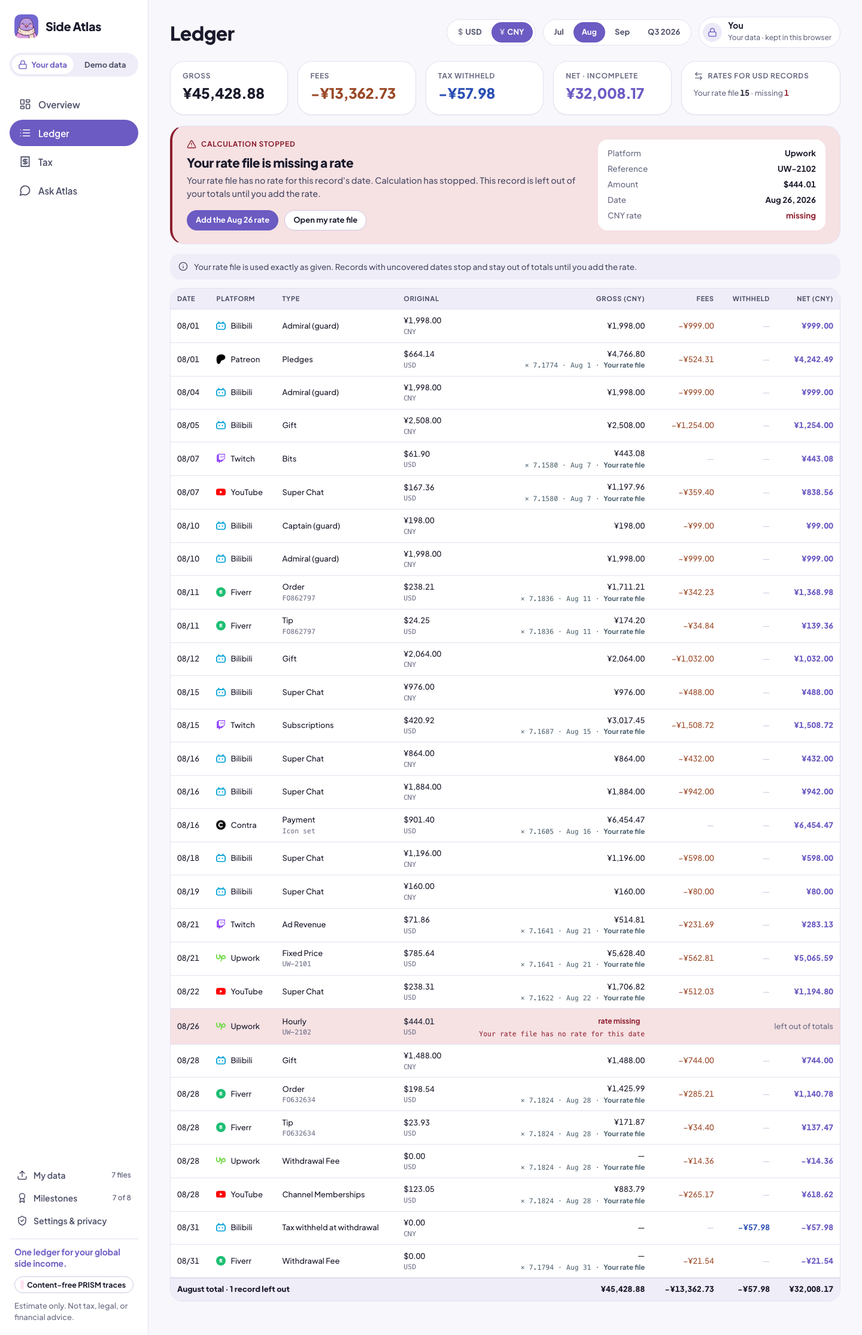
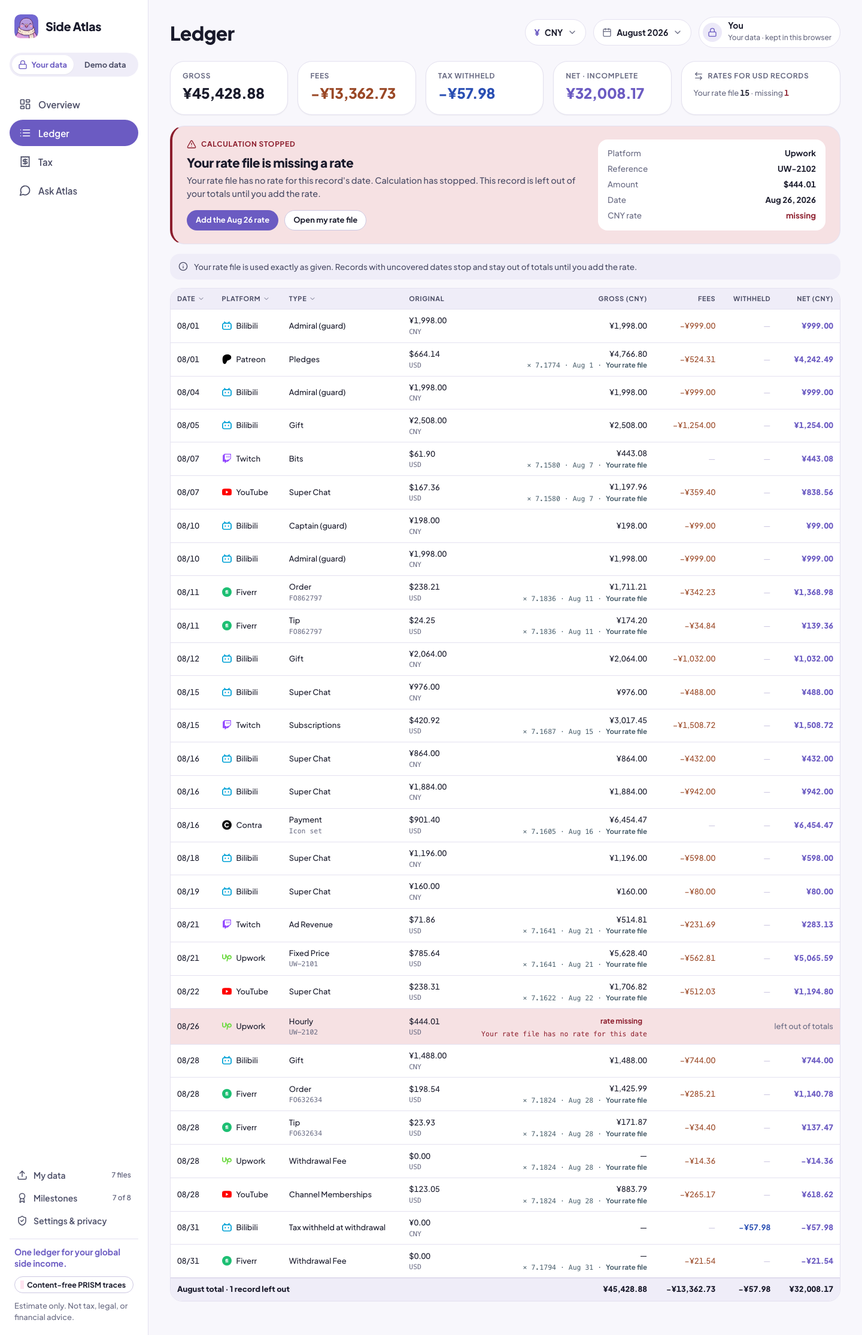
Dropdowns for period and currency; ledger filters in the column headers (kit v1.4.1)
Period and display currency are pills over native selects (months newest first, then
quarters). The ledger chip row is gone: Date sorts, Platform and Type filter from their
headers, CSV moves to the page header, the record count moves to the total row.

diff --git a/web/screens/ledger.js b/web/screens/ledger.js
@@ -17,10 +17,28 @@ async function load(ctx) {
 }
 
 function filtered(ctx, rows) {
-  const f = ctx.query.get("f"), t = ctx.query.get("t");
+  const f = ctx.query.get("f"), t = ctx.query.get("t"), dir = ctx.query.get("s") === "new" ? -1 : 1;
   return rows.filter(r => (!f || r.platform === f) && (!t || r.type === t))
-    .sort((a, b) => a.date.localeCompare(b.date) || a.platform.localeCompare(b.platform));
+    .sort((a, b) => dir * a.date.localeCompare(b.date) || a.platform.localeCompare(b.platform));
 }
+
+// Column filters (kit v1.4.1): Date sorts, Platform and Type filter. Each header is a small pill over a
+// native select; an active filter shows its value in the accent colour.
+function head(ctx, L, cols) {
+  const f = ctx.query.get("f"), type = ctx.query.get("t"), sort = ctx.query.get("s") === "new" ? "new" : "old";
+  const types = [...new Set(L.rows.filter(r => !f || r.platform === f).map(r => r.type))].sort();
+  const pick = (key, text, on, options) => `<label class="th-pick ${on ? "on" : ""}">${esc(text)}${icon("chevron", "sm chev")}
+    <select data-col="${key}" aria-label="${key === "s" ? "Sort by date" : key === "f" ? "Filter by platform" : "Filter by type"}">${options}</select></label>`;
+  const opt = (v, label, sel) => `<option value="${esc(v)}" ${sel ? "selected" : ""}>${esc(label)}</option>`;
+  const plat = f && L.platforms.find(p => p.platform === f);
+  return `<thead><tr>
+    <th>${pick("s", "Date", sort === "new", opt("old", "Oldest first", sort === "old") + opt("new", "Newest first", sort === "new"))}</th>
+    <th>${pick("f", plat ? plat.label : "Platform", !!plat, opt("", "All platforms", !f) + L.platforms.map(p => opt(p.platform, p.label, p.platform === f)).join(""))}</th>
+    <th>${pick("t", type || "Type", !!type, opt("", "All types", !type) + types.map(x => opt(x, x, x === type)).join(""))}</th>
+    ${cols}</tr></thead>`;
+}
+
+const csvBtn = `<button class="sa-btn secondary sm" data-csv>${icon("download", "sm")} CSV</button>`;
 
 function original(r) {
   if (r.original.currency === "USD") return `<span class="meta">USD</span>`;
@@ -37,23 +55,20 @@ export async function render(ctx) {
   const L = await load(ctx);
   const t = L.totals;
   const rows = filtered(ctx, L.rows);
-  const f = ctx.query.get("f"), type = ctx.query.get("t");
-  const types = [...new Set(L.rows.filter(r => !f || r.platform === f).map(r => r.type))].sort();
-  const link = extra => ctx.href("ledger", { c: ctx.creator, p: ctx.period, f, t: type, ...extra });
+  const f = ctx.query.get("f");
   // One home for the totals: the KPI row follows the platform filter (no repeated total row).
   const k = (f && L.platforms.find(p => p.platform === f)) || t;
 
   const importBtn = `<button class="sa-btn primary sm" data-import-open>${icon("upload", "sm")} Import statements</button>`;
-  return top(ctx, "Ledger", periodLabel(ctx.period), { actions: importBtn }) + `
+  return top(ctx, "Ledger", "", { actions: csvBtn + importBtn }) + `
   ${L.issues.length ? `<div class="sa-grid" style="margin-bottom:20px">${warnCard(ctx, L.issues)}</div>` : ""}
   <div class="sa-kpirow">
     ${[["Gross", k.gross, ""], ["Platform fees", -k.platform_fee, "var(--sa-fee-text)"], ["Payout fees", -k.payout_fee, "var(--sa-payout-text)"],
        ["Tax withheld", -k.withheld, "var(--sa-tax-text)"], ["Net", k.net, "var(--sa-net-text)"]]
       .map(([l, v, c]) => `<div class="sa-card sa-kpi"><div class="label">${l}</div><div class="sa-fig num" style="${c ? `color:${c}` : ""}">${usd(v)}</div></div>`).join("")}
   </div>
-  ${filters(ctx, L, link, types)}
   <div class="sa-tablewrap"><table class="sa-table dense">
-    <thead><tr><th>Date</th><th>Platform</th><th>Type</th><th>Original</th><th class="money">Gross</th><th class="money">Platform fee</th><th class="money">Payout fee</th><th class="money">Withheld</th><th class="money">Net</th></tr></thead>
+    ${head(ctx, L, `<th>Original</th><th class="money">Gross</th><th class="money">Platform fee</th><th class="money">Payout fee</th><th class="money">Withheld</th><th class="money">Net</th>`)}
     <tbody>${rows.map(r => `<tr class="${r.net_usd == null ? "missing" : ""}">
       <td class="num">${mmdd(r.date)}</td>
       <td>${picon(r.platform)}${esc(r.platform_label)}</td>
@@ -61,17 +76,6 @@ export async function render(ctx) {
       <td class="num">${original(r)}</td>
       ${r.gross_usd == null ? cell(null) : `<td class="money">${usd(r.gross_usd)}</td>`}${cell(r.platform_fee_usd, "fee")}${cell(r.payout_fee_usd, "payout")}${cell(r.withheld_usd, "tax")}${cell(r.net_usd, "net")}</tr>`).join("")}
     </tbody></table></div>`;
-}
-
-function filters(ctx, L, link, types) {
-  const f = ctx.query.get("f"), type = ctx.query.get("t");
-  return `<div class="sa-filters">
-    <a class="sa-chip ${f ? "" : "on"}" href="${link({ f: null, t: null })}">All · ${L.rows.length} records</a>
-    ${L.platforms.map(p => `<a class="sa-chip ${f === p.platform ? "on" : ""}" href="${link({ f: f === p.platform ? null : p.platform, t: null })}">${picon(p.platform)}${p.label}</a>`).join("")}
-    <label class="sa-btn secondary sm select">${icon("filter", "sm")} ${type ? esc(type) : "Type"}
-      <select data-type aria-label="Record type"><option value="">All types</option>${types.map(x => `<option ${x === type ? "selected" : ""}>${esc(x)}</option>`).join("")}</select></label>
-    <button class="sa-btn secondary sm" data-csv>${icon("download", "sm")} CSV</button>
-  </div>`;
 }
 
 // ---------------------------------------------------------------- Your data (kit 17)
@@ -96,9 +100,7 @@ async function renderYours(ctx) {
   const money = ctx.money, k = ctx.cur.toLowerCase();
   const L = await load(ctx);
   const rows = filtered(ctx, L.rows);
-  const f = ctx.query.get("f"), type = ctx.query.get("t");
-  const types = [...new Set(L.rows.filter(r => !f || r.platform === f).map(r => r.type))].sort();
-  const link = extra => ctx.href("ledger", { p: ctx.period, f, t: type, ...extra });
+  const f = ctx.query.get("f");
   const t = (f && L.platforms.find(p => p.platform === f)) || L.totals;
   const left = rows.filter(r => r.issue).length;
 
@@ -131,7 +133,7 @@ async function renderYours(ctx) {
   }).join("");
   const label = periodLabel(ctx.period).split(" · ")[0];
 
-  return top(ctx, "Ledger", "", { actions: ctx.currencySeg(ctx) }) + `
+  return top(ctx, "Ledger", "", { actions: csvBtn + ctx.currencySeg(ctx) }) + `
   ${L.issues.length ? `<div class="sa-grid" style="margin-bottom:16px">${warnCard(ctx, L.issues)}</div>` : ""}
   <div class="sa-kpirow">
     ${[["Gross", t.gross, ""], ["Fees", -(t.platform_fee + t.payout_fee), "var(--sa-fee-text)"], ["Tax withheld", -t.withheld, "var(--sa-tax-text)"],
@@ -140,18 +142,20 @@ async function renderYours(ctx) {
     ${ratesCard}
   </div>
   ${curs.length ? `<div class="sa-note info" style="margin-bottom:14px">${icon("info", "sm")}<span>${withFile ? YOURS.LEDGER_FILE_NOTE : YOURS.LEDGER_ECB_NOTE}</span></div>` : ""}
-  ${filters(ctx, L, link, types)}
   <div class="sa-tablewrap"><table class="sa-table dense">
-    <thead><tr><th>Date</th><th>Platform</th><th>Type</th><th>Original</th><th class="money">Gross (${ctx.cur})</th><th class="money">Fees</th><th class="money">Withheld</th><th class="money">Net (${ctx.cur})</th></tr></thead>
+    ${head(ctx, L, `<th>Original</th><th class="money">Gross (${ctx.cur})</th><th class="money">Fees</th><th class="money">Withheld</th><th class="money">Net (${ctx.cur})</th>`)}
     <tbody>${body}
-      <tr class="total"><td colspan="4">${esc(label)} total${left ? ` · ${left} record${left === 1 ? "" : "s"} left out` : ""}</td><td class="money">${money(t.gross)}</td><td class="money">${money(-(t.platform_fee + t.payout_fee))}</td><td class="money">${money(-t.withheld)}</td><td class="money">${money(t.net)}</td></tr>
+      <tr class="total"><td colspan="4">${esc(label)} total · ${rows.length} record${rows.length === 1 ? "" : "s"}${left ? ` · ${left} record${left === 1 ? "" : "s"} left out` : ""}</td><td class="money">${money(t.gross)}</td><td class="money">${money(-(t.platform_fee + t.payout_fee))}</td><td class="money">${money(-t.withheld)}</td><td class="money">${money(t.net)}</td></tr>
     </tbody></table></div>`;
 }
 
 export function mount(ctx, root) {
-  root.querySelector("[data-type]")?.addEventListener("change", ev => {
-    location.hash = ctx.href("ledger", { c: ctx.yours ? null : ctx.creator, p: ctx.period, f: ctx.query.get("f"), t: ev.target.value || null });
-  });
+  root.querySelectorAll("[data-col]").forEach(sel => sel.addEventListener("change", () => {
+    const q = { f: ctx.query.get("f"), t: ctx.query.get("t"), s: ctx.query.get("s") };
+    q[sel.dataset.col] = sel.value && !(sel.dataset.col === "s" && sel.value === "old") ? sel.value : null;
+    if (sel.dataset.col === "f") q.t = null; // types differ per platform
+    location.hash = ctx.href("ledger", { c: ctx.yours ? null : ctx.creator, p: ctx.period, ...q });
+  }));
   root.querySelector("[data-csv]")?.addEventListener("click", () => downloadCsv(ctx));
   const open = () => openPanel(ctx, root, () => {
     if (ctx.query.get("import")) history.replaceState(null, "", ctx.href("ledger", { c: ctx.creator, p: ctx.period, f: ctx.query.get("f"), t: ctx.query.get("t") }));

diff --git a/design/Side-Atlas-Design-Kit v1/07-mockups/app.html b/design/Side-Atlas-Design-Kit v1/07-mockups/app.html
@@ -77,9 +77,13 @@ const dateShort = d => new Date(d + "T12:00:00").toLocaleString("en-US", { month
 function who(name, cjk, meta) {
   return `<div class="sa-who"><div class="av">${cjk ? `<span class="cjk">${cjk}</span>` : name[0]}</div><div><b>${name}</b><span>${meta}</span></div></div>`;
 }
+// v1.4.1: period and currency are dropdown pills (a native select in the product), so the list can grow.
+const PERIOD_LONG = { Jul: "July 2026", Aug: "August 2026", Sep: "September 2026", "Q3 2026": "Q3 2026" };
 function periodSeg(on) {
-  return `<div class="sa-seg">${["Jul", "Aug", "Sep", "Q3 2026"].map(p => `<button class="${p === on ? "on" : ""}">${p}</button>`).join("")}</div>`;
+  return `<span class="sa-pick">${icon("calendar", "sm")}<span>${PERIOD_LONG[on] ?? on}</span>${icon("chevron", "sm chev")}</span>`;
 }
+const thPick = (label, on) => `<span class="th-pick ${on ? "on" : ""}">${label}${icon("chevron", "sm chev")}</span>`;
+const csvBtn = () => `<span class="sa-btn secondary sm">${icon("download", "sm")} CSV</span>`;
 const moon = () => who("Moon Spirit", "", "New York · US tax home · single-member LLC");
 
 /* ---------------- Overview ---------------- */
@@ -135,19 +139,13 @@ function ledger() {
   const rows = [...L.rows].sort((a, b) => a.date.localeCompare(b.date) || a.platform.localeCompare(b.platform));
   const cell = (v, cls) => `<td class="money ${v === 0 ? "zero" : cls}">${v === 0 ? "—" : usd(cls === "net" ? v : -v)}</td>`;
   return `
-  <div class="sa-top"><div><h1>Ledger</h1></div><div class="right">${periodSeg("Sep")}${moon()}</div></div>
+  <div class="sa-top"><div><h1>Ledger</h1></div><div class="right">${csvBtn()}${periodSeg("Sep")}${moon()}</div></div>
   <div class="sa-kpirow">
     ${[["Gross", t.gross, ""], ["Platform fees", -t.platform_fee, "var(--sa-fee-text)"], ["Payout fees", -t.payout_fee, "var(--sa-payout-text)"], ["Tax withheld", -t.withheld, "var(--sa-tax-text)"], ["Net", t.net, "var(--sa-forest)"]]
       .map(([l, v, c]) => `<div class="sa-card sa-kpi"><div class="label">${l}</div><div class="sa-fig num" style="${c ? `color:${c}` : ""}">${usd(v)}</div></div>`).join("")}
   </div>
-  <div style="display:flex;gap:8px;align-items:center;margin-bottom:14px;flex-wrap:wrap">
-    <span class="sa-chip on">All · ${rows.length} records</span>
-    ${D.overview_c01_sep.platforms.map(p => `<span class="sa-chip">${PICON(p.platform)}${p.label}</span>`).join("")}
-    <span style="margin-left:auto" class="sa-btn secondary sm">${icon("filter", "sm")} Type</span>
-    <span class="sa-btn secondary sm">${icon("download", "sm")} CSV</span>
-  </div>
   <div class="sa-tablewrap"><table class="sa-table dense">
-    <thead><tr><th>Date</th><th>Platform</th><th>Type</th><th>Original</th><th class="money">Gross</th><th class="money">Platform fee</th><th class="money">Payout fee</th><th class="money">Withheld</th><th class="money">Net</th></tr></thead>
+    <thead><tr><th>${thPick("Date")}</th><th>${thPick("Platform")}</th><th>${thPick("Type")}</th><th>Original</th><th class="money">Gross</th><th class="money">Platform fee</th><th class="money">Payout fee</th><th class="money">Withheld</th><th class="money">Net</th></tr></thead>
     <tbody>${rows.map(r => `<tr>
       <td class="num">${r.date.slice(5).replace("-", "/")}</td>
       <td>${PICON(r.platform)}${r.platform_label}</td>
@@ -426,7 +424,7 @@ function bindSettings() {
 // "Your data" screens re-use creator C01's exports as if the person uploaded them (data-v13.js, real ledger
 // numbers). The person is "You": no name, no account; account IDs appear only as pseudonymised labels.
 const you = () => `<div class="sa-who"><div class="av">${icon("lock", "sm")}</div><div><b>You</b><span>Your data · kept in this browser</span></div></div>`;
-const curSeg = on => `<div class="sa-seg cur" aria-label="Display currency">${[["USD", "$"], ["CNY", "¥"]].map(([c, g]) => `<button class="${c === on ? "on" : ""}"><span>${g}</span>${c}</button>`).join("")}</div>`;
+const curSeg = on => `<span class="sa-pick"><b class="g">${on === "CNY" ? "¥" : "$"}</b><span>${on}</span>${icon("chevron", "sm chev")}</span>`;
 // Where each export lives (same list as the product's import drawer; paths may change).
 const WHERE = [
   ["upwork", "Upwork", "upwork_transactions.csv", "Reports → Transaction history → Download CSV"],
@@ -752,7 +750,7 @@ function ledgerCnyCase(kind) {
   </section>` : ""}
   <div class="sa-note info" style="margin-bottom:14px">${icon("info", "sm")}<span>${kind === "ecb" ? X.LEDGER_ECB_NOTE : X.LEDGER_FILE_NOTE}</span></div>
   <div class="sa-tablewrap"><table class="sa-table dense">
-    <thead><tr><th>Date</th><th>Platform</th><th>Type</th><th>Original</th><th class="money">Gross (CNY)</th><th class="money">Fees</th><th class="money">Withheld</th><th class="money">Net (CNY)</th></tr></thead>
+    <thead><tr><th>${thPick("Date")}</th><th>${thPick("Platform")}</th><th>${thPick("Type")}</th><th>Original</th><th class="money">Gross (CNY)</th><th class="money">Fees</th><th class="money">Withheld</th><th class="money">Net (CNY)</th></tr></thead>
     <tbody>${LG.rows.map(r => r.issue ? `<tr class="missing">${head(r)}
       <td class="money"><span class="sa-badge warn">rate missing</span>${rateLine(r)}</td><td colspan="3" class="money meta">left out of totals</td></tr>` : `<tr>${head(r)}
       <td class="money">${r.gross_cny ? yen(r.gross_cny) : "—"}${rateLine(r)}</td>${cell(r.platform_fee_cny + r.payout_fee_cny, "fee", true)}${cell(r.withheld_cny, "tax", true)}<td class="money net">${yen(r.net_cny)}</td></tr>`).join("")}
@@ -848,18 +846,13 @@ function ledgerV14() {
   };
   return `
   <div class="sa-top"><div><h1>Ledger</h1></div>
-    <div class="right"><a class="sa-btn secondary sm">${icon("upload", "sm")} Add statements</a><a class="sa-btn primary sm" href="#entry-expense">${icon("plus", "sm")} Add entry</a>${periodSeg("Sep")}</div></div>
+    <div class="right"><a class="sa-btn secondary sm">${icon("upload", "sm")} Add statements</a><a class="sa-btn primary sm" href="#entry-expense">${icon("plus", "sm")} Add entry</a>${csvBtn()}${periodSeg("Sep")}</div></div>
   <div class="sa-kpirow">
     ${[["Gross income", t.gross, ""], ["Fees", -t.fees, "var(--sa-fee-text)"], ["Tax withheld", -t.withheld, "var(--sa-tax-text)"], ["Your expenses", -t.expenses, ""], ["Kept after expenses", t.kept, "var(--sa-forest)"]]
       .map(([l, v, c]) => `<div class="sa-card sa-kpi"><div class="label">${l}</div><div class="sa-fig num" style="${c ? `color:${c}` : ""}">${money(v)}</div></div>`).join("")}
   </div>
-  <div style="display:flex;gap:8px;align-items:center;margin-bottom:14px">
-    <span class="sa-chip on">All <span class="n">${L.counts.all}</span></span><span class="sa-chip">${icon("up", "sm")} Income <span class="n">${L.counts.income}</span></span><span class="sa-chip">${icon("down", "sm")} Expenses <span class="n">${L.counts.expenses}</span></span>
-    <span class="meta" style="margin-left:12px;display:flex;gap:6px;align-items:center">${youTag()} ${L.counts.own} entries this month</span>
-    <span style="margin-left:auto" class="sa-btn secondary sm">${icon("filter", "sm")} Source</span><span class="sa-btn secondary sm">${icon("download", "sm")} CSV</span>
-  </div>
   <div class="sa-tablewrap"><table class="sa-table dense">
-    <thead><tr><th>Date</th><th>Source</th><th>Type</th><th>Original</th><th class="money">Gross</th><th class="money">Fees</th><th class="money">Withheld</th><th class="money">Net</th></tr></thead>
+    <thead><tr><th>${thPick("Date")}</th><th>${thPick("Source")}</th><th>${thPick("Type")}</th><th>Original</th><th class="money">Gross</th><th class="money">Fees</th><th class="money">Withheld</th><th class="money">Net</th></tr></thead>
     <tbody>${L.rows.map(row).join("")}
       <tr class="total"><td colspan="4">${monthName(m)} total · net income ${money(t.net)}, kept after expenses ${money(t.kept)}</td><td class="money">${money(t.gross)}</td><td class="money">${money(-t.fees)}</td><td class="money">${money(-t.withheld)}</td><td class="money">${money(t.net_after_expenses)}</td></tr>
     </tbody></table></div>`;

diff --git a/web/app.js b/web/app.js
@@ -5,7 +5,7 @@
 // in this browser, POST /api/personal/*). Screens ask ctx.load() and don't care which.
 import { COPY } from "./lib/copy.js";
 import { get } from "./lib/api.js";
-import { cur, esc, icon, monthShort, quarterOf } from "./lib/format.js";
+import { cur, esc, icon, monthName, monthShort, quarterOf } from "./lib/format.js";
 import * as overview from "./screens/overview.js";
 import * as ledger from "./screens/ledger.js";
 import * as tax from "./screens/tax.js";
@@ -82,8 +82,7 @@ export function href(screen, params) {
 function periodsOf(ctx) {
   if (!ctx.yours) return PERIODS;
   const { months, quarters } = yourPeriods(ctx.data);
-  const q = ctx.period ? quarterOf(ctx.period) : quarters.at(-1);
-  return [...months.filter(m => quarterOf(m) === q), ...quarters];
+  return [...months, ...quarters];
 }
 
 function periodFor(target, ctx) {
@@ -92,10 +91,16 @@ function periodFor(target, ctx) {
   return periodsOf(ctx).includes(ctx.period) ? ctx.period : null;
 }
 
-const periodName = p => p.includes("Q") ? `Q${p.slice(-1)} ${p.slice(0, 4)}` : monthShort(p);
+const periodName = p => p.includes("Q") ? `Q${p.slice(-1)} ${p.slice(0, 4)}` : `${monthName(p)} ${p.slice(0, 4)}`;
 
+// Period and display currency are dropdowns (kit v1.4.1): a pill that shows the choice over a native
+// select, so the list can grow with more months, quarters and years.
 export function periodSeg(ctx) {
-  return `<div class="sa-seg">${periodsOf(ctx).map(p => `<a href="${href(ctx.screen.key, { c: ctx.yours ? null : ctx.creator, p })}" class="${p === ctx.period ? "on" : ""}">${periodName(p)}</a>`).join("")}</div>`;
+  if (!ctx.period) return "";
+  const all = periodsOf(ctx), opt = p => `<option value="${p}" ${p === ctx.period ? "selected" : ""}>${periodName(p)}</option>`;
+  const group = (label, ps) => ps.length ? `<optgroup label="${label}">${ps.slice().reverse().map(opt).join("")}</optgroup>` : "";
+  return `<label class="sa-pick" title="Period">${icon("calendar", "sm")}<span>${periodName(ctx.period)}</span>${icon("chevron", "sm chev")}
+    <select data-period-switch aria-label="Period">${group("Months", all.filter(p => !p.includes("Q")))}${group("Quarters", all.filter(p => p.includes("Q")))}</select></label>`;
 }
 
 const issueText = c => c.data_issues?.length
@@ -118,10 +123,12 @@ export function whoPill(ctx) {
 }
 
 // Display currency switch (Your data only; the demo is in USD). Saving it re-renders the screen.
+const CURRENCIES = [["USD", "$", "US dollar"], ["CNY", "¥", "Chinese yuan"]];
 export function currencySeg(ctx) {
   if (!ctx.yours) return "";
-  return `<div class="sa-seg cur" aria-label="Display currency">${[["USD", "$"], ["CNY", "¥"]].map(([c, g]) =>
-    `<button type="button" data-currency="${c}" class="${c === ctx.cur ? "on" : ""}"><span>${g}</span>${c}</button>`).join("")}</div>`;
+  const [, g] = CURRENCIES.find(([c]) => c === ctx.cur) ?? CURRENCIES[0];
+  return `<label class="sa-pick" title="Display currency"><b class="g">${g}</b><span>${ctx.cur}</span>${icon("chevron", "sm chev")}
+    <select data-currency-switch aria-label="Display currency">${CURRENCIES.map(([c, , n]) => `<option value="${c}" ${c === ctx.cur ? "selected" : ""}>${c} · ${n}</option>`).join("")}</select></label>`;
 }
 
 let renderSeq = 0;
@@ -167,9 +174,12 @@ async function go() {
     const issueMonth = ctx.screen.period === "month" ? next?.data_issues?.[0]?.month : null;
     location.hash = href(ctx.screen.key, { c: ev.target.value, p: issueMonth ?? (ctx.screen.period ? ctx.period : null) });
   });
-  main.querySelectorAll("[data-currency]").forEach(b => b.addEventListener("click", async () => {
-    if (b.dataset.currency === ctx.cur) return;
-    await store.saveSettings({ currency: b.dataset.currency });
+  main.querySelector("[data-period-switch]")?.addEventListener("change", ev => {
+    location.hash = href(ctx.screen.key, { c: ctx.yours ? null : ctx.creator, p: ev.target.value });
+  });
+  main.querySelectorAll("[data-currency-switch]").forEach(sel => sel.addEventListener("change", async () => {
+    if (sel.value === ctx.cur) return;
+    await store.saveSettings({ currency: sel.value });
     go();
   }));
 }

diff --git a/web/styles/app.css b/web/styles/app.css
@@ -267,3 +267,17 @@ a.sa-prism { text-decoration: none; }
 .sa-legend li { grid-template-columns: 18px 1fr auto 92px; }
 .sa-legend .sa-picon { margin-right: 0; }
 .sa-chip .sa-picon { width: 14px; height: 14px; margin-right: 0; vertical-align: -2px; }
+
+/* Dropdown pickers (kit v1.4.1): period and display currency in the page header, column filters in the ledger */
+.sa-pick { position: relative; display: inline-flex; align-items: center; gap: 8px; height: 44px; padding: 0 14px; background: var(--sa-surface); border: 1px solid var(--sa-line); border-radius: var(--sa-r-pill); font: 700 14px/1 var(--sa-font); color: var(--sa-ink); white-space: nowrap; cursor: pointer; }
+.sa-pick:hover { border-color: var(--sa-line-strong); }
+.sa-pick:focus-within { outline: 2px solid var(--sa-forest); outline-offset: 2px; }
+.sa-pick > .sa-icon { color: var(--sa-meta); }
+.sa-pick .g { color: var(--sa-forest); font-weight: 800; }
+.sa-pick select, .th-pick select { position: absolute; inset: 0; width: 100%; opacity: 0; cursor: pointer; font: inherit; }
+.th-pick { position: relative; display: inline-flex; align-items: center; gap: 4px; padding: 4px 8px; margin: -4px -8px; border-radius: 8px; cursor: pointer; white-space: nowrap; }
+.th-pick:hover { background: var(--sa-forest-100); }
+.th-pick:focus-within { outline: 2px solid var(--sa-forest); outline-offset: 1px; }
+.th-pick .chev { width: 12px; height: 12px; color: var(--sa-meta); }
+.th-pick.on { color: var(--sa-forest); background: var(--sa-forest-100); text-transform: none; letter-spacing: 0; }
+.th-pick.on .chev { color: var(--sa-forest); }

diff --git a/design/Side-Atlas-Design-Kit v1/05-css/side-atlas-ui-reference.css b/design/Side-Atlas-Design-Kit v1/05-css/side-atlas-ui-reference.css
@@ -479,3 +479,11 @@ body { background: var(--sa-page); color: var(--sa-ink); font: var(--sa-body); -
 .sa-legend li { grid-template-columns: 18px 1fr auto 92px; }
 .sa-legend .sa-picon { margin-right: 0; }
 .sa-chip .sa-picon { width: 14px; height: 14px; margin-right: 0; vertical-align: -2px; }
+
+/* v1.4.1 · dropdown pickers: period and display currency in the page header, column filters in the ledger */
+.sa-pick { position: relative; display: inline-flex; align-items: center; gap: 8px; height: 44px; padding: 0 14px; background: var(--sa-surface); border: 1px solid var(--sa-line); border-radius: var(--sa-r-pill); font: 700 14px/1 var(--sa-font); color: var(--sa-ink); white-space: nowrap; cursor: pointer; }
+.sa-pick > .sa-icon { color: var(--sa-meta); }
+.sa-pick .g { color: var(--sa-forest); font-weight: 800; }
+.th-pick { position: relative; display: inline-flex; align-items: center; gap: 4px; padding: 4px 8px; margin: -4px -8px; border-radius: 8px; cursor: pointer; white-space: nowrap; }
+.th-pick .chev { width: 12px; height: 12px; color: var(--sa-meta); }
+.th-pick.on { color: var(--sa-forest); background: var(--sa-forest-100); text-transform: none; letter-spacing: 0; }

diff --git a/design/Side-Atlas-Design-Kit v1/Side-Atlas-Design-Decisions.md b/design/Side-Atlas-Design-Kit v1/Side-Atlas-Design-Decisions.md
@@ -8,6 +8,8 @@ The single place where visual rulings live. Changing a ruling means a new kit ve
 |---|---|---|
 | 56 | **My data, nothing imported:** title with "Nothing imported yet", one hero headline, the mascot speech bubble and one button (Choose CSV files). Removed: the hero eyebrow, the 8-platform sentence, the drop hint, "Explore demo data" (the sidebar switch does this) and "Try sample statements". | User: the page had too much text; asked to keep the subtitle and the speech bubble and to drop the hint and the sample button. |
 | 57 | **Privacy strip, short form:** three short promises (Saved only in this browser · Server keeps no copy · AI sees totals, not rows) plus a "How your data is handled" link to Settings & privacy, where the full privacy map lives. | Details moved one click away instead of under every promise. |
+| 63 | **Period and display currency are dropdowns** (a pill showing the choice, calendar or currency sign in front, chevron after) instead of segmented buttons: months newest first, then quarters, so more months and years fit. | User: segmented buttons only fit a few fixed choices. |
+| 64 | **Ledger filters live in the column headers:** Date sorts (oldest or newest first), Platform (Source in v1.4) and Type filter; an active filter shows its value in the accent colour. The chip row is gone; CSV moves to the page header; the record count moves into the total row. Every row keeps its platform mark. | User: the chip row repeated the table; filter where the column is. |
 | 61 | **Platform marks replace the colour dots** next to platform names (lists, tables, chips, legends): Simple Icons 15.22.0 (CC0) in each brand's colour, plus plain letter marks for Contra (not in Simple Icons) and Fiverr (its mark is a wordmark, unreadable at 16 px). Stacked bars keep the categorical palette, because the brand colours collide (two greens, two blues, two reds). Your own sources keep the ring dot. | User asked for real platform icons and to keep the original brand look. |
 | 62 | **No period or currency subtitle** under Overview, Ledger and Tax: the period switch, the currency switch and the hero already say it. | User: those lines were filler. |
 | 60 | **Badge art is live:** `gen_data_v14.py --js` now finds the Atlas v2 picks, so every badge has its own pose (coin, trophy, coin-stack, envelope, star-badge, globe, medal, ledger; flag for a reached goal). Closes the note in #55. | The v2 poses landed. |
